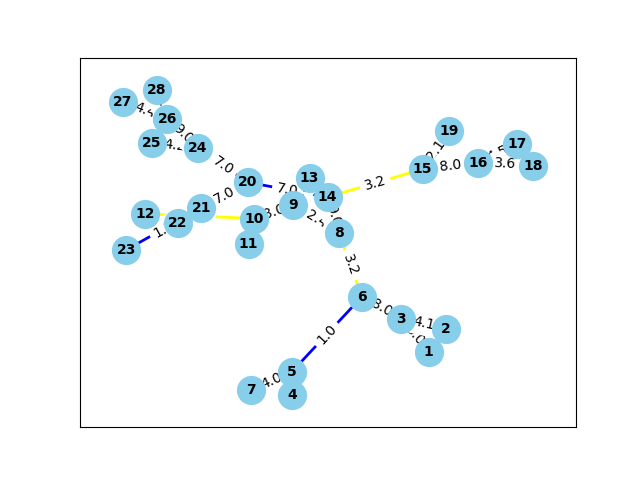
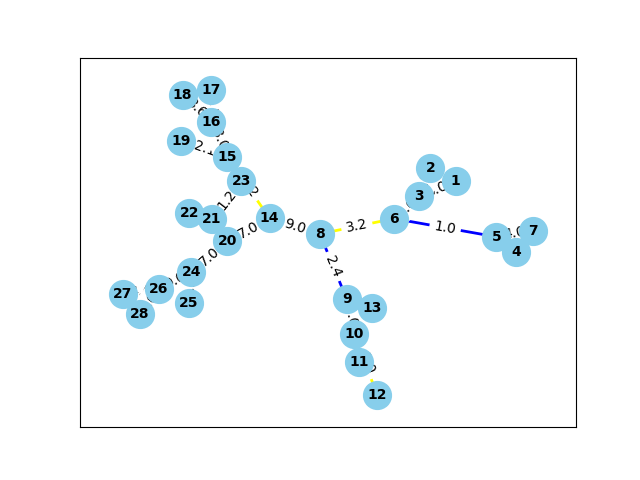
finished optimization algorithm for b

Changed region(s): [[0.1562, 0.1562, 0.875, 0.875], [0.6875, 0.4375, 0.875, 0.5625], [0.375, 0.7188, 0.5, 0.875]]

diff --git a/b.py b/b.py
@@ -41,10 +41,17 @@ def get_sorted_node_list_by_remaining_degree_then_max_edge_weight(Graph):
 					max_i=i
 					max_j=j 
 					max_weight=Graph[i][j]["weight"]
-			print(Graph[max_i][max_j])
-			exit(0)
-			#add the node it is from to the nodes_by_degree final results array
+			# print(max_i,max_j,node_degree_class, all_edges_under_consideration)
+			# print("\n")
+			# add the node it is from to the nodes_by_degree final results array
 			#remove added node from the nodes_degree_class so it's edge wont get picked again 
+			if max_i in node_degree_class:
+				nodes_by_degree.append(max_i)
+				node_degree_class.remove(max_i)
+			elif max_j in node_degree_class:
+				nodes_by_degree.append(max_j)
+				node_degree_class.remove(max_j)
+	# print(nodes_by_degree)
 	return nodes_by_degree	
 	
 def clear_node_engagements(Graph):
@@ -55,15 +62,14 @@ def clear_node_engagements(Graph):
 def get_node_to_transfer_with(Graph, starting_node,num):
 	edges=list(Graph.edges(starting_node, data=True))
 	valid_edges=edges.copy()
-	print("all edges from node"+str(starting_node)+" "+str(edges))
-	print(len(edges))
+	# print("all edges from node"+str(starting_node)+" "+str(edges))
+	# print(len(edges))
 	for (i, j, attributes) in edges:
-		print(i,j)
 		if (attributes["completed"]==True):
 			valid_edges.remove( (i,j,Graph[i][j]) )
 		elif(Graph.nodes[j]["is_engaged"]==True):
 			valid_edges.remove( (i,j,Graph[i][j]) )
-	print("remaining edges"+str(edges))
+	# print("remaining edges"+str(edges))
 	max_val=0
 	max_node=-1
 	for i,j,attributes in valid_edges:
@@ -127,11 +133,11 @@ for i in range(get_max_degree_of_graph(G)):
 				G.nodes[node]["is_engaged"]=True	
 				G.nodes[destination_node]["remaining_degree"]-=1				
 				G.nodes[node]["remaining_degree"]-=1
-
+				print("edge completed round " + color_list[i] + " " + str(node) + " " + str(destination_node))
 				G[node][destination_node]["completed"]=True
 				G[node][destination_node]["color"]=color_list[i] 	
 				
-				print("completed", node, destination_node, G[node][destination_node])
+				# print("completed", node, destination_node, G[node][destination_node])
 
 	clear_node_engagements(G)
 
